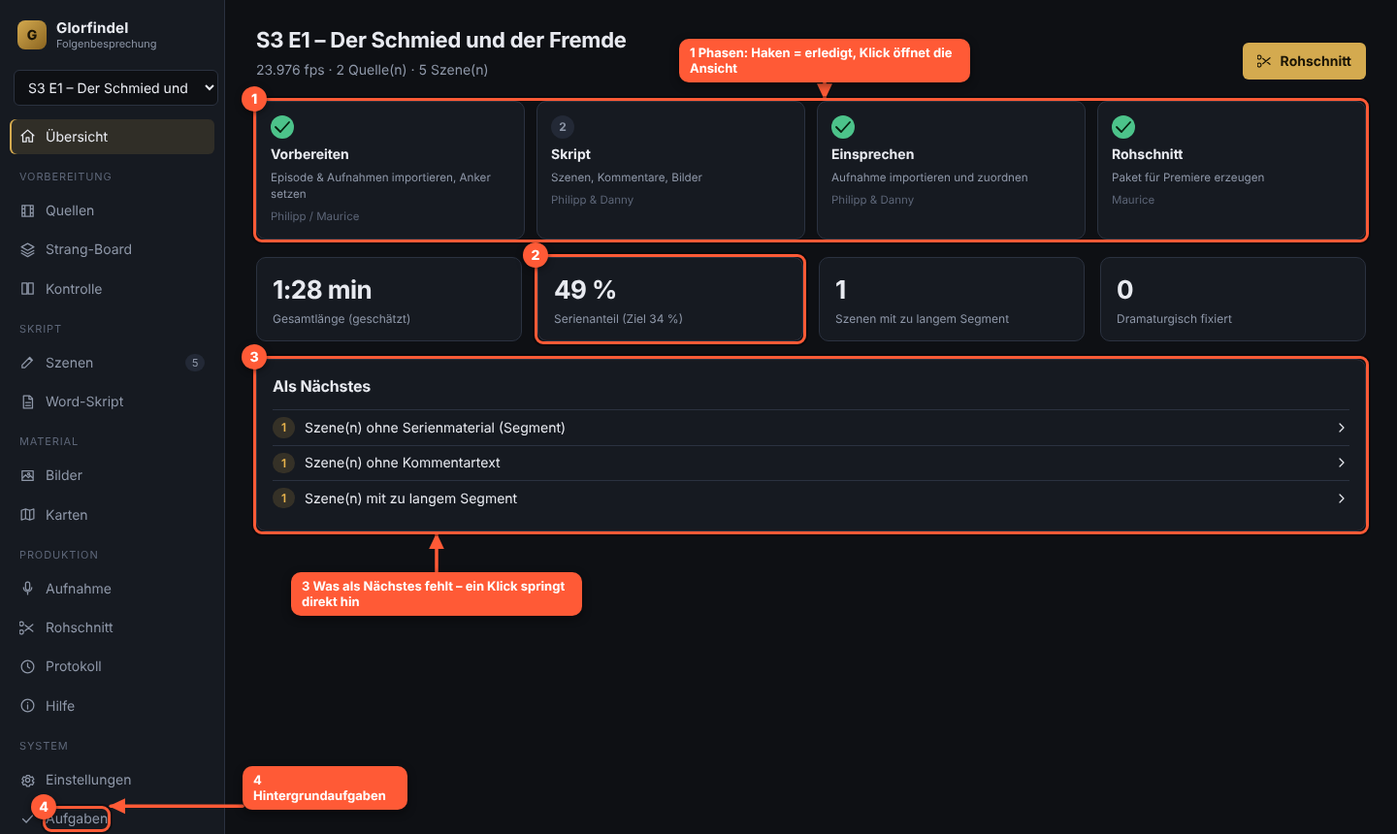
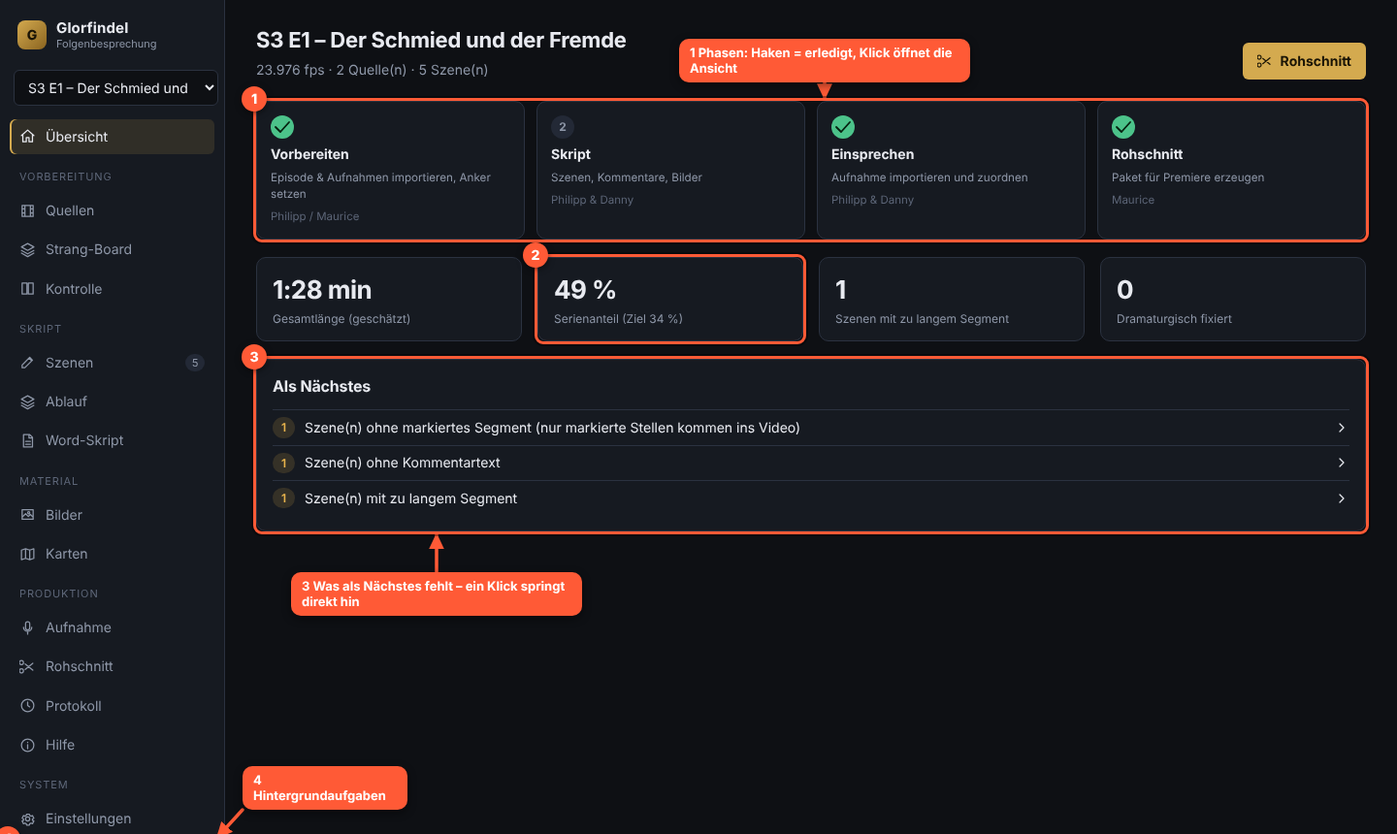
Anleitung und Screenshots auf den Segment-Workflow umgestellt, Status

diff --git a/scripts/make_help_screenshots.py b/scripts/make_help_screenshots.py
@@ -116,33 +116,42 @@ with sync_playwright() as p:
         dict(sel="text:Proxy", nth=0, text="Proxy = schnelle Vorschau", at=[1000, 330], w=200),
         dict(sel="text:Anker", nth=0, text="Ankerpunkte für HQ/Screener", at=[1150, 270], w=230)])
     go("board")
+    pg.wait_for_timeout(600)
+    pg.locator(".shot").nth(0).click()
+    pg.locator(".shot").nth(1).click(modifiers=["Shift"])
     shot(pg, "04-board", [
         dict(sel="text:Stränge", text="Stränge und ihre Reihenfolge festlegen", at=[560, 16], w=300),
-        dict(sel=".shot", nth=0, text="Zeiten ändern · teilen · verbinden", at=[560, 640], w=250),
-        dict(sel=".lane", nth=1, text="Vorschläge mit der Maus in einen Strang ziehen", at=[700, 770], w=300),
+        dict(sel=".board-bar", text="Mehrere Vorschläge wählen (Strg/Umschalt) und mit einem Klick einem Strang zuordnen", at=[600, 476], w=420),
+        dict(sel=".shot.selected", nth=0, text="Ausgewählt · Doppelklick oder ▶ spielt die Szene ab", at=[560, 620], w=290),
         dict(sel="text:Zugeordnete", text="Als Szenen anlegen", at=[1210, 448], w=190)])
     go("editor")
-    pg.wait_for_timeout(1500)
+    pg.wait_for_timeout(1800)
+    pg.evaluate("document.querySelector('.scene-item')?.click()")
     shot(pg, "05-editor", [
         dict(sel=".scene-list-head", text="Suchen und filtern", at=[250, 520], w=200),
-        dict(sel=".scene-item", nth=0, text="Szenenliste: Ampel, Strang, Status – Ziehen sortiert", at=[250, 580], w=270),
-        dict(sel=".player", text="Player: I und O setzen Anfang/Ende des Segments", at=[1010, 70], w=290),
-        dict(sel=".seg-row", nth=0, text="Segmente mit Längenampel", at=[600, 700], w=210),
-        dict(sel=".block", nth=0, text="Kommentarblock: Sprecher, Text oder Stichpunkte", at=[1000, 640], w=300),
-        dict(sel=".savestate", text="Speichert automatisch", at=[880, 120], w=150)])
-    pg.evaluate("const ta=document.querySelector('.block textarea'); ta.focus(); ta.setSelectionRange(24, 40)")
-    pg.click("text=Bild an Auswahl >> nth=0")
+        dict(sel=".si-meta", nth=0, text="Auf einen Blick: Segmente, Kommentare, Bilder", at=[250, 600], w=260),
+        dict(sel=".tl2", text="Zeitleiste: Szenenbereich, Segmente, Kommentarmarken", at=[600, 104], w=330),
+        dict(sel=".dlg-card", text="Dialog der Episode: Wörter ziehen = Stelle markieren", at=[570, 700], w=330),
+        dict(sel=".seg-card", nth=0, text="Segment mit Dialog, Notiz und Kommentaren", at=[1040, 740], w=300),
+        dict(sel=".playseg, .seg-card .btn.primary", nth=0, text="Segment abspielen", at=[1010, 100], w=150)])
+    pg.evaluate("const ta=document.querySelector('.seg-card .mt-ta'); ta.focus(); ta.setSelectionRange(24, 44)")
+    pg.click("text=Bild / Karte einblenden >> nth=0")
     shot(pg, "06-bild-zuordnen", [
-        dict(sel=".modal select", nth=0, text="Bild oder Karte wählen", at=[440, 188], w=190),
-        dict(sel=".modal input[type=number]", nth=0, text="Ab welchem Wort erscheint es", at=[440, 380], w=250),
-        dict(sel=".modal input[type=number]", nth=1, text="Bis wohin (leer = bis Ende)", at=[740, 380], w=220),
-        dict(sel="text:Übernehmen", text="Übernehmen", at=[800, 745], w=120)], wait=600)
+        dict(sel=".modal .seg", text="Bilder oder Karten", at=[260, 120], w=170),
+        dict(sel=".pick-grid", nth=0, text="Bild anklicken = einblenden, ab dem markierten Wort", at=[560, 140], w=300),
+        dict(sel=".modal input[type=search]", text="Bibliothek durchsuchen", at=[1000, 140], w=200)], wait=900)
     pg.keyboard.press("Escape")
     go("script")
     shot(pg, "07-word", [
         dict(sel="text:Gesamtes Skript", text="Exportieren: alles, nur Philipp oder nur Danny", at=[560, 22], w=290),
         dict(sel="text:Word-Datei wählen", text="Bearbeitetes Word zurückspielen", at=[1020, 22], w=250),
+        dict(sel="text:Für Philipp", text="Sprecherskript: nur zum Vorlesen, ohne technische Marken", at=[760, 330], w=300),
         dict(sel="text:Rahmenteil +", text="Rahmenteile (Werbung, Outro) mit fester Dauer", at=[620, 358], w=420)])
+    go("ablauf")
+    shot(pg, "17-ablauf", [
+        dict(sel=".ab-head", nth=0, text="Ganzen Strang ziehen = Reihenfolge ändern", at=[1000, 260], w=260),
+        dict(sel=".ab-row", nth=1, text="Einzelne Szenen frei einsortieren", at=[1000, 320], w=250),
+        dict(sel="text:Automatisch", text="Zurück zur Reihenfolge nach Strängen", at=[560, 130], w=260)])
     go("images")
     shot(pg, "08-bilder", [
         dict(sel=".thumb", nth=2, text="Bild der Folge anklicken: Credit und Konturfarbe bearbeiten", at=[980, 180], w=300),

diff --git a/scripts/seed_demo.py b/scripts/seed_demo.py
@@ -126,7 +126,7 @@ def main():
             ids.append(sc["id"])
         sc = api("GET", E + "/scenes")
         def put(i, fn):
-            s = sc[i]
+            s = api("GET", E + "/scenes")[i]
             for k in ("report", "lock", "problems", "ausgabe"):
                 s.pop(k, None)
             fn(s)
@@ -135,6 +135,20 @@ def main():
         put(2, lambda s: s["kommentar"][0].update(anker=[{"asset": assets[1]["id"], "karte": None, "von": 0, "bis": None, "layout": "einzel", "einheit": "wort"}]))
         put(1, lambda s: s["kommentar"][0].update(anker=[{"asset": None, "karte": "map_01", "von": 5, "bis": None, "layout": "einzel", "einheit": "wort"}]))
         put(0, lambda s: s["kommentar"][1].update(modus="stichpunkte", text="", stichpunkte=["Schmiede in Eregion", "Mittelpunkt der Geschichte"]))
+        # Segment-Workflow: Kommentare gehören zu Segmenten, Notizen als Kontext, Dialog der Episode für die Anzeige
+        put(0, lambda s: [s["kommentar"][0].update(segment=0), s["kommentar"][1].update(segment=1), s["segmente"][0].update(notiz="Celebrimbor allein in der Schmiede"), s.update(bereich=[2, 30])])
+        put(1, lambda s: [s["kommentar"][0].update(segment=0), s.update(bereich=[38, 52])])
+        put(2, lambda s: [s["kommentar"][0].update(segment=0), s.update(bereich=[30, 38])])
+        put(3, lambda s: [s["kommentar"][0].update(segment=0), s.update(bereich=[52, 70])])
+        put(4, lambda s: s.update(bereich=[70, 78]))
+        lines = ["I will not fail my people.", "The forge must be ready before the winter comes.", "You have my word, Annatar, as a smith and as a friend.", "Then we begin at dawn.", "Armenelos shines like a jewel in the evening light.", "Nothing here is what it seems.", "Show me the rings."]
+        words, tt = [], 5.0
+        for ln in lines:
+            for w in ln.split():
+                words.append({"w": w, "start": round(tt, 2), "end": round(tt + 0.3, 2)})
+                tt += 0.36
+            tt += 2.2 if ln is not lines[0] else 6.0
+        api("PUT", E + "/dialog", {"words": words, "sprache": "en", "quelle": ref})
         api("PUT", E + "/free-blocks", [{"titel": "Werbung", "text": "", "after": ids[2], "dauer": 81}])
         # Aufnahmen: Transkript direkt in den Cache (kein Whisper nötig) und Abgleich
         from glorfindel.config import load_settings

diff --git a/web/help/anleitung.md b/web/help/anleitung.md
@@ -4,14 +4,17 @@ Diese Anleitung führt dich von der Installation bis zum fertigen Rohschnitt. Si
 
 ## 1. Was das Tool macht
 
-Glorfindel erzeugt aus der **Episode**, eurem gemeinsam geschriebenen **Skript**, **Bildern**, **Kartenplatzhaltern** und der **Sprachaufnahme** einen Rohschnitt für Premiere Pro. Feinschnitt, Musik, Karten-Animation und Export bleiben in Premiere.
+Glorfindel erzeugt aus der **Episode**, euren **Kommentaren**, **Bildern**, **Karten** und der **Sprachaufnahme** einen Rohschnitt für Premiere Pro. Feinschnitt, Musik, Karten-Animation und Export bleiben in Premiere.
 
-Der Ablauf in vier Phasen:
+**Der Ablauf, so wie ihr arbeitet:**
 
-- **Vorbereiten** – Episode importieren, Szenen festlegen (Philipp / Maurice).
-- **Skript** – Kommentare schreiben, Bilder und Karten zuordnen (Philipp und Danny).
-- **Einsprechen** – Aufnahme importieren, automatisch den Szenen zuordnen.
-- **Rohschnitt** – Schnittpaket erzeugen und in Premiere öffnen (Maurice).
+1. **Folge laden und verarbeiten** – Episode importieren; das Tool erzeugt die Vorschau, transkribiert den Dialog und schlägt Szenen vor.
+2. **Nach Strängen aufteilen** – im Strang-Board ordnet ihr die Szenen den Handlungssträngen zu, damit zusammengehörende Handlung am Stück besprochen wird (erst alle Eregion-Stellen, dann alle Moria-Stellen – auch wenn die Episode anders verläuft).
+3. **Durchgehen und besprechen** (z. B. Maurice) – in jeder Szene die **Stellen markieren**, die wirklich ins Video kommen (Segmente), je Segment einen **Kommentar** schreiben und **Bilder/Karten** direkt dort wählen.
+4. **Reihenfolge anpassen** – Stränge und einzelne Szenen im **Ablauf** verschieben.
+5. **Ausgeben** – Word-Arbeitsskript, **Sprecherskript** zum Vorlesen, Aufnahme zuordnen, Rohschnitt erzeugen.
+
+**Wichtig:** Nur die **markierten Segmente** werden ins Video und ins Word übernommen. Kommentare gehören zu **Segmenten**, nicht zur ganzen Szene.
 
 Alles läuft lokal auf deinem Rechner. Gemeinsame Daten liegen im OneDrive-Ordner der Folge, bearbeitet wird phasenweise nacheinander.
 
@@ -47,6 +50,8 @@ Wichtig zum Datenschutz: Aufnahmen verlassen deinen Rechner nur, wenn du ausdrü
 
 Links oben im Folgen-Menü **+ Neue Folge anlegen …**. Das Tool schlägt die nächste Nummer vor. Titel ist optional. Mit Enter bestätigst du.
 
+Nach dem Import der Referenz erscheint auf der Übersicht **Folge verarbeiten**: ein Klick erzeugt nacheinander das Vorschau-Video, transkribiert den **Dialog der Episode** (Whisper, Sprache automatisch) und erkennt Szenen. Jeder Schritt zeigt Fortschritt und Restzeit; du kannst währenddessen weiterarbeiten.
+
 Die **Übersicht** zeigt dir pro Folge:
 
 - vier Phasenkarten mit Häkchen, wenn die Phase erledigt ist,
@@ -65,7 +70,7 @@ Ansicht **Quellen**.
 2. Das Tool liest Länge und Bildrate und erzeugt automatisch einen **Proxy** (kleine, schnell abspielbare Version). Fortschritt siehst du links unten bei **Aufgaben**.
 3. **Weitere Quelle**: später z. B. die HQ-Version (deutsch) oder den Screener. Sie wird über **Ankerpunkte** auf die Referenz abgebildet.
 4. **Zuschnitt** erkennt schwarze Balken (Letterbox) automatisch.
-5. **Anker** (Zeitcodes) kannst du hier tippen, bequemer geht es in der Ansicht **Kontrolle** (Abschnitt 11).
+5. **Anker** (Zeitcodes) kannst du hier tippen, bequemer geht es in der Ansicht **Kontrolle** (Kapitel 12).
 
 Zeiten werden als `mm:ss.zz` (Sekunden mit Hundertstel) eingegeben, z. B. `01:23.50`. `mm:ss:bb` meint Bilder.
 
@@ -73,87 +78,98 @@ Zeiten werden als `mm:ss.zz` (Sekunden mit Hundertstel) eingegeben, z. B. `01:23
 
 **Im Bild:** 1 Referenz importieren, 2 Rolle jeder Quelle, 3 Proxy für die schnelle Vorschau, 4 Ankerpunkte für die HQ-Fassung.
 
-## 6. Strang-Board (optional, spart Zeit)
+## 6. Strang-Board
 
-Das Board schlägt aus der Referenz automatisch **Szenen** vor (Schnitt- und Tonpausen).
+Das Board schlägt aus der Referenz automatisch **Szenen** vor (Schnitt- und Tonpausen) und sortiert sie nach **Strängen**.
 
-1. **Szenen erkennen** – das dauert einige Minuten, der Fortschritt läuft im Hintergrund.
-2. Lege oben deine **Stränge** fest (z. B. Eregion, Númenor). Farbe, Name und Reihenfolge sind änderbar; die Reihenfolge bestimmt die Reihenfolge im Schnitt und im Word.
-3. **Ziehe** Vorschläge mit der Maus in den passenden Strang.
-4. Pro Vorschlag: Zeiten anpassen, mit der Schere **teilen**, mit der Kette **mit dem nächsten verbinden**, mit × verwerfen.
-5. **Zugeordnete als Szenen anlegen** erzeugt die Szenen im Szenen-Editor.
+1. **Szenen erkennen** (oder „Folge verarbeiten“ auf der Übersicht).
+2. Lege oben deine **Stränge** fest (z. B. Eregion, Númenor). Farbe, Name und Reihenfolge sind änderbar; auch die Strang-Spuren lassen sich am Griff `⋮⋮` ziehen. Die Reihenfolge bestimmt die Reihenfolge im Schnitt und im Word.
+3. **Ansehen:** Doppelklick auf einen Vorschlag (oder ▶) öffnet einen **eigenen Player**: die Szene läuft in Schleife, mit „Vorherige/Nächste“ und Direktzuordnung zum Strang.
+4. **Mehrere gleichzeitig:** Klick wählt aus, **Strg+Klick** fügt hinzu, **Umschalt+Klick** wählt von … bis. Dann oben mit einem Klick dem Strang zuordnen, alle gemeinsam ziehen oder zu **einer** Szene verbinden. „Alle wählen“ in der Strang-Kopfzeile nimmt den ganzen Strang.
+5. Pro Vorschlag: Zeiten ändern, mit der Schere **teilen**, **verbinden**, verwerfen.
+6. **Zugeordnete als Szenen anlegen** erzeugt die Szenen – **ohne Segmente**. Die Segmente markierst du anschließend im Szenen-Editor.
 
-![Strang-Board mit Vorschlägen](img/04-board.png)
+![Strang-Board mit Mehrfachauswahl](img/04-board.png)
 
-**Im Bild:** 1 Stränge und ihre Reihenfolge, 2 Vorschlag mit Zeiten, Teilen, Verbinden und Verwerfen, 3 Vorschläge in einen Strang ziehen, 4 als Szenen anlegen.
+**Im Bild:** 1 Stränge und ihre Reihenfolge, 2 Auswahl-Leiste (mehrere Vorschläge einem Strang zuordnen), 3 ausgewählter Vorschlag mit Player, 4 als Szenen anlegen.
 
-## 7. Szenen schreiben (Szenen-Editor)
+## 7. Szenen bearbeiten: Segmente markieren und kommentieren
 
-Hier verbringt ihr die meiste Zeit. Links die Szenenliste, rechts die Szene.
+Hier verbringt ihr die meiste Zeit. Links die Szenenliste, in der Mitte Player und Dialog, rechts die **Segmente** der Szene mit ihren Kommentaren.
 
 ![Szenen-Editor](img/05-editor.png)
 
-**Im Bild:** 1 Suche und Filter, 2 Szenenliste mit Längenampel, 3 Player mit `I`/`O`, 4 Segmente, 5 Kommentarblöcke, 6 Speicherstatus.
+**Im Bild:** 1 Suche und Filter, 2 Szene auf einen Blick (Segmente, Kommentare je Sprecher, Vorschaubilder), 3 Zeitleiste mit Szenenbereich, Segmenten und Kommentarmarken, 4 Dialog der Episode, 5 Segmentkarte, 6 Segment abspielen.
 
-**Liste:** Suche nach Titel oder Text, Filter (Strang, Status, „ohne Segment“, „zu langes Segment“). Farbpunkt = **Längenampel** (grün passt, gelb knapp, rot zu lang; Grenze ist 9,5 s pro Segment). Per Maus lässt sich die Reihenfolge ändern, oder mit den Pfeilknöpfen neben dem Titel. Die Zahl links ist die Nummer in Word und Rohschnitt.
+**Szenenliste:** Ein Klick auf eine Szene **springt im Player zur Stelle**. Ampelpunkt (grün/gelb/rot = Längenampel, grau = noch kein Segment), Strang, Status und darunter Zähler für Segmente und Kommentare (mit Punkten für Philipp/Danny) sowie Vorschaubilder der eingeblendeten Bilder/Karten. Suche über Titel, Kommentare und Notizen; Filter u. a. „Ohne Segment“, „Ohne Kommentar“. Filter und Auswahl **bleiben erhalten**, wenn du die Ansicht wechselst.
 
-**Segmente:** Eine Szene besteht aus einem oder mehreren Stücken der Serie (Montage). Im Player die Stelle suchen, `I` setzt den Anfang, `O` das Ende. Zeiten lassen sich auch tippen.
+**Segmente markieren – nur das kommt ins Video:**
+- **Im Dialog:** Die Episode ist transkribiert. Klick auf ein Wort springt dorthin, **Wörter ziehen** markiert eine Stelle → **Als Segment markieren**. Die Zeiten kommen aus den Wörtern.
+- **Im Player:** `I` setzt den Anfang, `O` das Ende – danach entsteht das Segment. Zeiten lassen sich auch tippen.
+- Bei jedem Segment steht automatisch der **gesprochene Dialog** („…“) und darunter eine **Notiz** für zusätzlichen Kontext (sie erscheint als Regieanweisung im Sprecherskript).
+- **Abspielen** spielt genau dieses Segment.
 
-**Kommentarblöcke:** Pro Block wählst du den Sprecher (Philipp/Danny) und den Modus:
-
-- **Text** – wird wörtlich gesprochen.
-- **Stichpunkte** – ein Punkt pro Zeile; wird frei ausformuliert gesprochen und später per Schlüsselwörtern zugeordnet. Danach lässt sich der gesprochene Text mit **Als Skript** übernehmen.
-
-**Bilder und Karten zuordnen:** Markiere im Text ein paar Wörter und klicke **Bild an Auswahl**. Wähle das Bild; es wird ab dieser Stelle eingeblendet (Layout: einzeln oder Doppelbild links/rechts). Über **Alle …** siehst du alle Zuordnungen eines Blocks.
+**Kommentare je Segment:** Unter jedem Segment mit **Kommentar hinzufügen**. Pro Kommentar: Sprecher (Philipp/Danny), Modus **Text** (wörtlich) oder **Stichpunkte** (frei ausformuliert), und mit dem Auswahlfeld lässt er sich einem anderen Segment zuordnen. Segmente ohne Kommentar laufen im Rohschnitt als Montage weiter; nach einem Segment **mit** Kommentar folgt das Standbild mit dem Sprechertext.
 
 ![Bild oder Karte zuordnen](img/06-bild-zuordnen.png)
 
-**Im Bild:** 1 Bild oder Karte wählen, 2 ab welchem Wort es erscheint, 3 bis wohin, 4 übernehmen.
+**Bilder und Karten direkt im Kommentar:** Wörter im Text markieren, dann **Bild / Karte einblenden**. Der Picker zeigt **Vorschaubilder**: Bilder dieser Folge, die Bibliothek (Suche, Stichwörter), Web-Adressen – und unter **Karten** vorhandene oder **neue Karten** aus der Bibliothek, die du sofort einzeichnest. Danach ist im Kommentartext **farbig markiert, von welchem bis zu welchem Wort** das Bild/die Karte erscheint; darunter steht es als Chip mit Vorschaubild. Klick auf den Chip ändert den Bereich (erstes und letztes Wort anklicken) und das Layout.
 
 **Speichern:** automatisch. Neben dem Titel steht „Gespeichert 14:32:10“. `Strg+S` speichert sofort.
 
-**Zusammenarbeit:** Öffnet jemand anderes dieselbe Szene, erscheint ein Hinweis. Speichert er zwischendurch, bekommst du einen Dialog: „Aktuelle laden“ oder „Meine speichern“. So geht nichts unbemerkt verloren.
+**Zusammenarbeit:** Öffnet jemand anderes dieselbe Szene, erscheint ein Hinweis. Speichert er zwischendurch, bekommst du einen Dialog: „Aktuelle laden“ oder „Meine speichern“.
 
 **Löschen:** Eine gelöschte Szene lässt sich 12 Sekunden lang mit **Rückgängig** zurückholen; danach liegt sie im Ordner `glorfindel/papierkorb`.
 
-**Status:** neu → Skript fertig → aufgenommen → abgeglichen. Ändert sich der Text einer schon aufgenommenen Szene, wird sie **veraltet** und muss neu abgeglichen werden.
+**Status:** neu → Skript fertig → aufgenommen → abgeglichen. Ändert sich Text oder Segment einer schon aufgenommenen Szene, wird sie **veraltet** und muss neu abgeglichen werden.
 
-**KI-Hilfen** (wenn Schlüssel vorhanden, Funkel-Symbole): Namen prüfen, Bild-Ideen aus dem Text, Kartenvorschlag, Titelvorschlag. Vorschläge übernimmst du immer selbst.
+**KI-Hilfen** (wenn Schlüssel vorhanden): Namen prüfen, Bild-Ideen, Titelvorschlag.
 
-## 8. Word-Skript
+## 8. Ablauf: Reihenfolge von Strängen und Szenen
 
-Für Sprecher, die lieber in Word lesen und schreiben.
+Hier legst du fest, in welcher Reihenfolge Szenen/Segmente im Video und im Word erscheinen.
 
-- **Exportieren**: gesamt, nur Philipp oder nur Danny. Optionen: Bild-/Kartenmarken zeigen, nach Strängen sortieren.
-- **Zurückübernehmen**: das bearbeitete Dokument wählen. Du siehst vorab, welche Szenen sich ändern.
-- Lösche die Marken im Dokument nicht (`⟦sz:…⟧`, `⟦+bild:…⟧`). Eigene Rahmenteile wie Werbung oder Outro legst du als „Überschrift 1“ an.
-- **Rahmenteile**: Intro, Werbung, Outro mit **bekannter Dauer** eintragen. Der Rohschnitt reserviert dafür eine Lücke exakter Länge.
-- **Altformat importieren**: bestehende Skripte mit `[Szenen]` und `P:`/`D:`-Zeilen.
+![Ablauf](img/17-ablauf.png)
+
+**Im Bild:** 1 ganzer Strang – an der Kopfzeile ziehen verschiebt den ganzen Block, 2 einzelne Szenen lassen sich frei einsortieren (auch zwischen andere Stränge, wenn Handlungen zusammenlaufen), 3 zurück zur automatischen Sortierung nach Strängen.
+
+Solange nichts verschoben wurde, gilt die Reihenfolge der Stränge aus dem Board. Sobald du eine Szene verschiebst, ist die Reihenfolge **manuell**; „Automatisch nach Strängen“ setzt sie zurück. Zeile anklicken öffnet die Szene im Editor.
+
+## 9. Word-Skripte
+
+Zwei verschiedene Dokumente:
+
+- **Arbeitsskript** (zum Zurückspielen): gegliedert nach Szene → Segment → Kommentar. Die kleinen Marken (`⟦sz:…⟧`, `⟦sg:…⟧`, Bild-Marken mit Namen) bitte nicht löschen – darüber werden Änderungen zugeordnet. Optionen: Marken zeigen, nach Strängen sortieren. Das bearbeitete Dokument spielst du zurück; vorab siehst du, welche Szenen sich ändern.
+- **Sprecherskript** (nur zum Vorlesen): Regieanweisungen je Segment (Notiz und der gesprochene Dialog der Stelle), der Kommentartext ungestört und Bild-/Kartenhinweise als **Randnotiz** („Einblendung → Bild: Alan Lee – Celebrimbor – ab „…““). Keine technischen Marken. Der Sprecher darf frei ändern – das hat keine Auswirkung auf das Projekt. Download für Philipp, Danny oder beide.
+
+**Rahmenteile** (Intro, Werbung, Outro) mit **bekannter Dauer** reservieren im Rohschnitt eine Lücke exakter Länge. **Altformat importieren:** Skripte mit `[Szenen]` und `P:`/`D:`-Zeilen.
 
 ![Word-Skript-Ansicht](img/07-word.png)
 
-**Im Bild:** 1 Export als Word, 2 bearbeitetes Word zurückspielen, 3 Rahmenteile mit fester Dauer.
+**Im Bild:** 1 Arbeitsskript exportieren, 2 bearbeitetes Word zurückspielen, 3 Sprecherskript, 4 Rahmenteile mit fester Dauer.
 
-## 9. Bilder und Karten
+## 10. Bilder und Karten
 
-**Bilder:** Bibliothek durchsuchen (Name, Titel, Stichwörter, Ordner), Klick fügt ein Bild zur Folge hinzu. Credit und Konturfarbe werden vorbelegt und sind änderbar. Mit **Aus Web holen** übernimmst du ein Bild von einer Adresse. Die **Künstler-Datenbank** ordnet Dateinamen einem Credit-Text zu; sie wächst mit und gilt für alle Folgen. **Bildindex aktualisieren** liest neue Dateien ein.
+Ausgewählt wird direkt im Kommentar (Kapitel 7). Die Ansichten **Bilder** und **Karten** dienen zum Pflegen:
+
+**Bilder:** Bibliothek durchsuchen (Name, Titel, Stichwörter, Ordner). Credit und Konturfarbe werden vorbelegt und sind änderbar. Mit **Aus Web holen** übernimmst du ein Bild von einer Adresse. Die **Künstler-Datenbank** ordnet Dateinamen einem Credit-Text zu; sie wächst mit und gilt für alle Folgen. Animierte Bilder (`.mov`) zeigen eine Vorschau und lassen sich im Bearbeiten-Dialog abspielen. **Bildindex aktualisieren** liest neue Dateien ein.
 
 ![Bilder-Ansicht](img/08-bilder.png)
 
 **Im Bild:** 1 ein Bild der Folge (anklicken zum Bearbeiten), 2 Künstler-Datenbank, 3 Bibliothek durchsuchen.
 
-**Karten:** Karte aus der Bibliothek wählen, dann **Einzeichnen**: Marker, Text, Pfeil/Pfad, Region und Kamerarahmen (mehrere Rahmen = Kamerafahrt). Pro Element lässt sich der Einsatzzeitpunkt angeben. **Platzhalter rendern** erzeugt das Kartenblatt (Skizze + Hinweise) und einen Platzhalterclip für Danny.
+**Karten:** Karte wählen und **Einzeichnen**: Marker, Text, Pfeil/Pfad, Region und Kamerarahmen (mehrere Rahmen = Kamerafahrt). Jedes Element hat eine **eigene Farbe** und einen Einsatzzeitpunkt. **Vorschau** spielt die Animation direkt im Browser ab (Kamerafahrt, Pfeile zeichnen sich, Elemente blenden ein). **Platzhalter rendern** erzeugt das Kartenblatt und den Platzhalter-Clip; **Clip** spielt ihn ab.
 
 ![Karten-Ansicht](img/09-karten.png)
 
 ![Karten-Editor](img/10-karteneditor.png)
 
-**Im Bild (Editor):** 1 Werkzeug wählen, 2 Karte anklicken und zeichnen, 3 Elemente mit Einsatzzeitpunkt, Kamerarahmen und Hinweisen.
+**Im Bild (Editor):** 1 Werkzeug wählen, 2 Karte anklicken und zeichnen, 3 Elemente mit Farbe, Einsatzzeitpunkt, Kamerarahmen und Hinweisen.
 
-## 10. Aufnahme
+## 11. Aufnahme
 
 1. **Philipp** / **Danny**: Aufnahme-Datei wählen (eine pro Sprecher, auch „alle“ möglich).
-2. **Abgleich starten**: Das Tool transkribiert und ordnet jeden Kommentarblock der Aufnahme zu. Bei mehreren Takes zählt der letzte.
+2. **Abgleich starten**: Das Tool transkribiert und ordnet jeden Kommentar (je Segment) der Aufnahme zu. Bei mehreren Takes zählt der letzte.
 3. Die Wellenform zeigt die zugeordneten Bereiche; Klick springt zur Stelle. `Leertaste`/`K` Pause, `J`/`L` springen zurück/vor.
 4. Pro Block siehst du die **Sicherheit** (Prozent). Mit „Nur unsichere Stellen“ und „Nächste unsichere“ prüfst du nur, was nötig ist. Bei mehreren Takes wählst du den passenden im Menü. Zeiten lassen sich nachtippen und mit dem Haken speichern.
 5. Spontan Ergänzendes wird blau angezeigt.
@@ -162,7 +178,7 @@ Für Sprecher, die lieber in Word lesen und schreiben.
 
 **Im Bild:** 1 Aufnahme je Sprecher hinzufügen, 2 Abgleich starten, 3 Wellenform (Farbflächen = zugeordnete Blöcke), 4 nur unsichere Stellen prüfen, 5 Sicherheit der Zuordnung.
 
-## 11. Kontrolle und HQ-Austausch
+## 12. Kontrolle und HQ-Austausch
 
 Du arbeitest mit dem Screener; vor dem Render wird auf die HQ-Fassung getauscht, ohne dass Feinschnitt verloren geht.
 
@@ -179,10 +195,11 @@ Du arbeitest mit dem Screener; vor dem Render wird auf die HQ-Fassung getauscht,
 
 **Im Bild:** 1 „Hier verknüpfen“ setzt den Anker, 2 Quelle folgt der Referenz, 3 zwei Player mit Bildschritt.
 
-## 12. Rohschnitt erzeugen
+## 13. Rohschnitt erzeugen
 
 Ansicht **Rohschnitt** → **Rohschnitt erzeugen**. Optionen: nach Strängen sortieren, Standbilder erzeugen, Quelle für Standbilder.
 
+- **Aufbau:** je markiertem Segment der Ausschnitt der Episode; hat das Segment einen Kommentar, folgt das **Standbild** mit Sprechertext, Bildern und Karten – Segmente ohne Kommentar laufen als Montage weiter. Nur markierte Segmente kommen vor.
 - Das Ergebnis ist ein **Schnittpaket** (`schnitt_vN.json`) plus eine **Premiere-XML** als Fallback. Jede Erzeugung legt eine neue Version an, alte bleiben erhalten.
 - Unter **Vorschau** siehst du alle Spuren als Balken. Mit dem Zoom schaust du genauer hin.
 - **Warnungen** nennen genau, was fehlt (z. B. „noch keine Aufnahme zugeordnet“). **Zur Szene** springt direkt hin.
@@ -192,7 +209,7 @@ Ansicht **Rohschnitt** → **Rohschnitt erzeugen**. Optionen: nach Strängen sor
 
 **Im Bild:** 1 Rohschnitt erzeugen, 2 Vorschau aller Spuren, 3 Warnungen mit Sprung zur Szene.
 
-## 13. Protokoll und Konflikte
+## 14. Protokoll und Konflikte
 
 Ansicht **Protokoll**: wer hat wann was geändert. Haben zwei gleichzeitig dieselbe Szene bearbeitet, legt OneDrive eine Konfliktkopie an. Sie erscheint oben mit **Vergleichen & lösen**: beide Versionen nebeneinander, du behältst eine.
 
@@ -200,7 +217,7 @@ Ansicht **Protokoll**: wer hat wann was geändert. Haben zwei gleichzeitig diese
 
 **Im Bild:** 1 wer hat wann was geändert.
 
-## 14. Aufgabenleiste und Fortschrittsanzeigen
+## 15. Aufgabenleiste und Fortschrittsanzeigen
 
 Alles, was länger dauert, läuft im Hintergrund und zeigt genau, was gerade passiert:
 
@@ -218,31 +235,32 @@ Auch kürzere Wartezeiten sind sichtbar: Seiten zeigen beim Laden, was sie gerad
 
 **Im Bild:** 1 Gesamtbalken mit Laufzeit, Restzeit und Fertig-Uhrzeit, 2 aktueller Schritt mit Teilfortschritt, 3 alle Schritte mit Dauer, 4 Abbrechen.
 
-## 15. Tastenkürzel
+## 16. Tastenkürzel
 
 **Szenen-Editor**
 
-- `I` / `O` – Segment-Anfang / -Ende setzen
+- `I` / `O` – Anfang / Ende markieren (danach entsteht das Segment)
 - `Leertaste` oder `K` – Abspielen/Pause
 - `J` / `L` – 2 s zurück / vor
 - `←` / `→` – ein Bild zurück / vor (mit Umschalt: zehn)
 - `Alt+↑` / `Alt+↓` – vorherige / nächste Szene
 - `Alt+Umschalt+↑/↓` – Szene verschieben
-- `Strg+Enter` – neuer Kommentarblock
-- `Alt+1` / `Alt+2` – Sprecher Philipp / Danny
+- `Strg+Enter` – neuer Kommentar im aktuellen Segment
 - `Strg+S` – sofort speichern
 
-**Aufnahme**: `Leertaste`/`K`, `J`, `L`. Dialoge: `Enter` bestätigt, `Esc` schließt.
+**Board:** Klick = wählen, `Strg+Klick` = hinzufügen, `Umschalt+Klick` = von … bis, Doppelklick = ansehen.
+**Aufnahme:** `Leertaste`/`K`, `J`, `L`. Dialoge: `Enter` bestätigt, `Esc` schließt.
 
-## 16. Tipps für schnelles Arbeiten
+## 17. Tipps für schnelles Arbeiten
 
-- Erst Board, dann Szenen füllen: spart das Suchen der Zeitpunkte.
+- Erst „Folge verarbeiten“, dann Board: spart das Suchen der Zeitpunkte.
+- Dialog-Stellen direkt im Dialogfeld markieren statt Zeiten zu tippen.
 - Stichpunkt-Modus nutzen, wenn ihr frei sprecht – danach „Als Skript“.
-- Bilder per Textauswahl zuordnen statt Wörter zu zählen.
+- Wörter im Kommentar markieren, dann Bild wählen – der Bereich ist sofort farbig sichtbar.
 - In der Aufnahme nur „unsichere Stellen“ prüfen.
 - Vor dem Rohschnitt die **Als Nächstes**-Liste leeren.
 
-## 17. Probleme und Lösungen
+## 18. Probleme und Lösungen
 
 - **Video spielt nicht ab:** Chrome oder Edge verwenden; Proxy erzeugen (Quellen → Proxy).
 - **„ffmpeg fehlt“:** `install.ps1`/`install.sh` erneut ausführen, danach neues Terminal öffnen.
@@ -253,7 +271,7 @@ Auch kürzere Wartezeiten sind sichtbar: Seiten zeigen beim Laden, was sie gerad
 - **Segment liegt hinter dem Ende der Episode:** im Szenen-Editor korrigieren; der Rohschnitt nennt die Szene.
 - **Zeitangaben stimmen nicht:** Format ist `mm:ss.zz` (Hundertstel), nicht Bilder.
 
-## 18. Begriffe
+## 19. Begriffe
 
 - **Referenz** – die Episode, die die Zeitachse festlegt.
 - **Anker** – Paar „Zeit in Referenz = Zeit in Quelle“; mehrere Anker gleichen Versatz und Tempo aus.

diff --git a/STATUS.md b/STATUS.md
@@ -13,6 +13,9 @@ web/js: Übersicht, Quellen (Import/Proxy/Anker/Zuschnitt), Strang-Board, Szenen
 ## Teil 2 (Zeitgewinn & Bedienung) – umgesetzt
 Siehe `Projektheft Teil 2 - Zeitgewinn und Bedienung.md`, Reviews in `docs/review/`. Welle 1–3 fertig: Aufgabenleiste, Auto-Proxy, Papierkorb/Rückgängig, Status „veraltet“, Versionsschutz (409), Cockpit, Editor-Tempo (Suche/Filter/Kürzel), Zwei-Player-Anker, Textauswahl-Anker, KI-Hilfen, Aufnahme-Prüfansicht (Takes), Rahmenteile mit Dauer, Word-Marker mit Namen, Künstler-Datenbank, Karten-Editor, Board mit Drag&Drop, Rohschnitt-Vorschau, Update-Check, Selbsttest. Fixes aus beiden Reviews eingearbeitet (111 Tests grün).
 
+## Teil 3 (Segment-Workflow) – umgesetzt
+Siehe `Projektheft Teil 3 - Segment-Workflow.md`. Kommentare gehören zu Segmenten (Segment-Notiz + Dialog der Episode), Dialog-Transkription der Episode, Szenen-Editor neu (Dialog zum Markieren, Zeitleiste mit Kommentarmarken, Bild-/Karten-Picker mit Vorschaubildern, farbige Wortbereiche), Board mit Mehrfachauswahl und Player, Ablauf-Ansicht (Stränge/Szenen frei sortieren), Sprecherskript, Kartenfarben und Animationsvorschau, gemerkter Ansichtszustand, Premiere-XML überarbeitet (Ursachen aus dem echten Export behoben).
+
 ## Offen
 - Review 2, noch nicht umgesetzt: Rohschnitt warnt nicht bei „veraltet“; Papierkorb ohne Übersicht in der UI; Aufnahme-Grenzen nur tippbar (Wellenform-Ziehen); `@`-Autovervollständigung für Bilder im Text; ffmpeg-Jobs nicht abbrechbar; Zeitfelder ohne Bereichsprüfung; ScaDS-Netzfehler beim Abgleich noch technisch formuliert.
 - Premiere-UXP-Panel und AE-Skript sind nur Skelette (nicht testbar ohne Premiere), End-to-End mit echter S2-E7-Konformierung.
